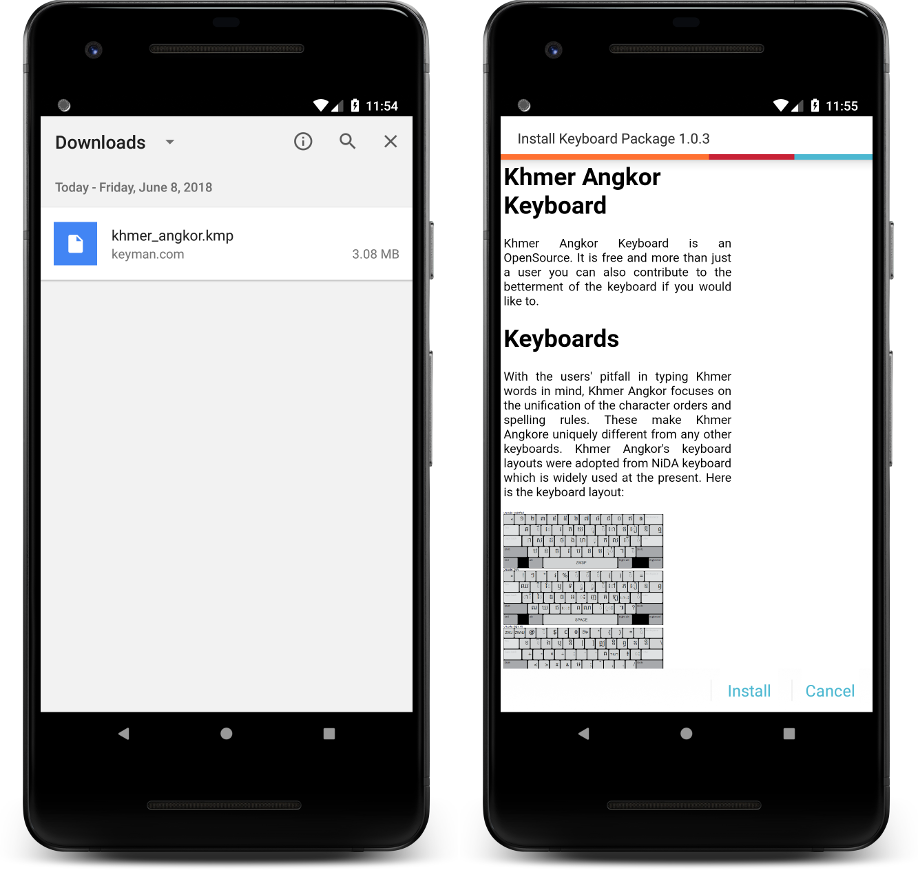
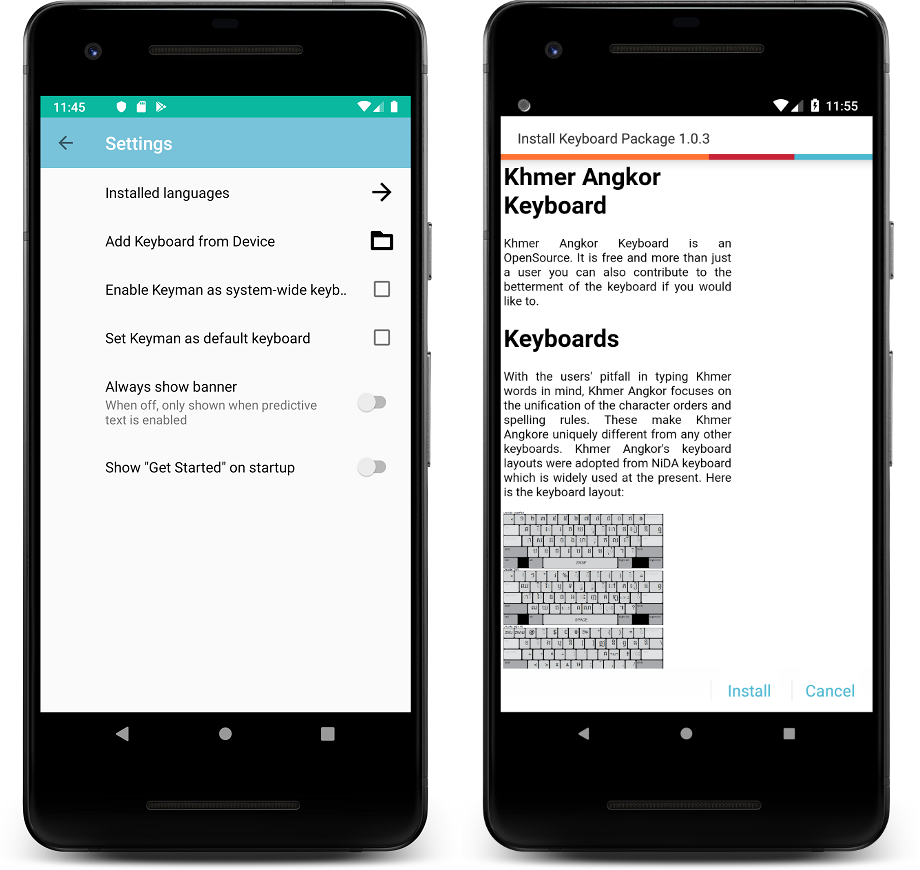
Update content for Android

diff --git a/android/index.php b/android/index.php
@@ -43,7 +43,7 @@
 
 <p>
   Now you also have the flexibility of installing Keyman keyboard packages from either online
-  (like <a href="/keyboards">keyman.com/keyboards</a>) or local storage.
+  (like <a href="/keyboards">keyman.com/keyboards</a>) or local storage from a new "Settings" panel.
 </p>
 
 <p>
@@ -91,14 +91,22 @@
         <td><img class="table-tick" src="<?php echo cdn("img/table-tick.png"); ?>"/></td>
     </tr>
     <tr>
-        <td>Install custom keyboard packages</td>
+        <td>Install custom keyboard and dictionary packages</td>
         <td><img class="table-tick" src="<?php echo cdn("img/table-tick.png"); ?>"/></td>
     </tr>
   </tbody>
 </table>
 
 <br/>
+<h3>New in Keyman for Android 12.0 (Oct 2019)</h3>
 
+<ul>
+    <li>Add predictive text support to keyboards. Default English keyboard now uses a dictionary by default</li>
+    <li>Changed keyboard install/uninstalls to use new "Settings" menu</li>
+    <li>Add keyboard packages from the local device using the "Settings" menu</li>
+</ul>
+
+<br/>
 <h3>New in Keyman for Android 11.0 (Mar 2019)</h3>
 
 <ul>
